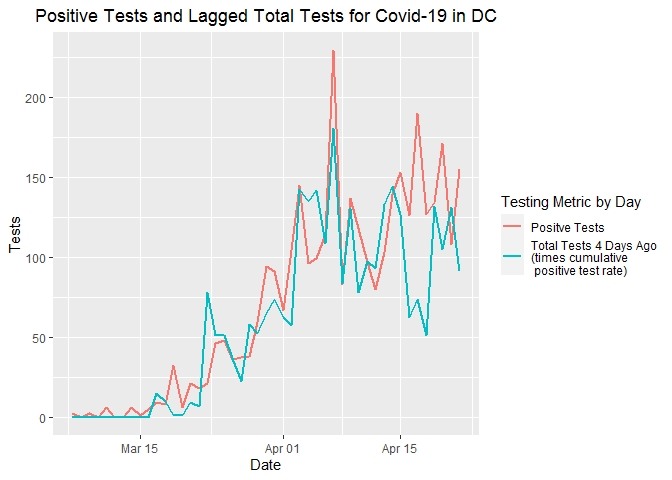
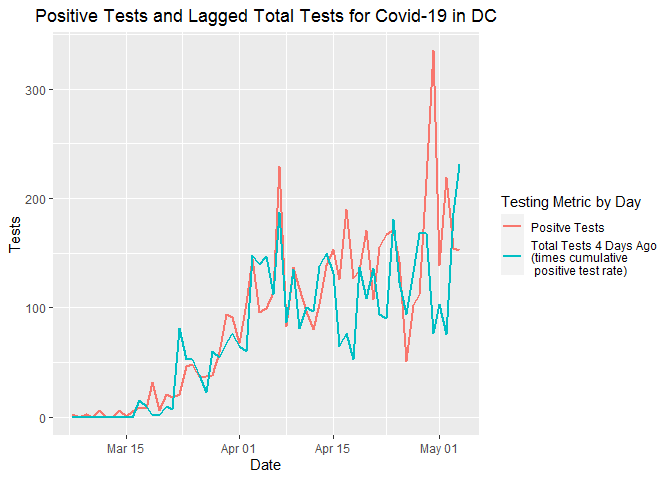
Update

diff --git a/Markdown/Testing_Results_Lag.md b/Markdown/Testing_Results_Lag.md
@@ -3,7 +3,7 @@ Lag in DC Test Results
 
 ### Postive Covid-19 Results in DC Lag by About Four Days
 
-23 April, 2020
+05 May, 2020
 
 **Note: I’m going to stop updating this file as the clear relationship
 between tests a few days ago and positive numbers now doesn’t appear to
@@ -12,45 +12,45 @@ be valid anymore.**
 The below plot shows the number of Positive Tests in red and the number
 of New Tests (multiplied by the positive test rate) in blue. Although
 the numbers tracked pretty well early on in testing, they have diverged
-recently. The correlation coefficient is currently 0.8005374.
+recently. The correlation coefficient is currently 0.8540016.
 
 ![](Testing_Results_Lag_files/figure-gfm/same_day-1.png)<!-- -->
 
 The below plot shows the number of Positive Tests in red compared to the
 number of New Tests four days ago (times the cumulative positive test
 rate) in blue. These numbers track much better, with a current
-correlation coefficient of 0.8573462.
+correlation coefficient of 0.7230607.
 
 ![](Testing_Results_Lag_files/figure-gfm/lag_4-1.png)<!-- -->
 
 Here is the correlation matrix for those interested in such a thing.
 
     ##              Test_New   Pos_New Test_Lag_1 Test_Lag_2 Test_Lag_3 Test_Lag_4
-    ## Test_New    1.0000000 0.8005374  0.7528415  0.7474900  0.6574723  0.7044287
-    ## Pos_New     0.8005374 1.0000000  0.6839421  0.7742732  0.7306120  0.8573462
-    ## Test_Lag_1  0.7528415 0.6839421  1.0000000  0.7624816  0.7751079  0.6676042
-    ## Test_Lag_2  0.7474900 0.7742732  0.7624816  1.0000000  0.7708756  0.7819632
-    ## Test_Lag_3  0.6574723 0.7306120  0.7751079  0.7708756  1.0000000  0.7942347
-    ## Test_Lag_4  0.7044287 0.8573462  0.6676042  0.7819632  0.7942347  1.0000000
-    ## Test_Lag_5  0.6855713 0.7822784  0.7126163  0.6749142  0.8016943  0.7990223
-    ## Test_Lag_6  0.7156503 0.8280881  0.6988118  0.7143976  0.6677115  0.8112982
-    ## Test_Lag_7  0.6527717 0.8185657  0.7236941  0.7014387  0.7203872  0.6747240
-    ## Test_Lag_8  0.6537431 0.7907564  0.6665863  0.7247441  0.6915465  0.7310507
-    ## Test_Lag_9  0.6114420 0.7378356  0.6633478  0.6811519  0.7649596  0.7004736
-    ## Test_Lag_10 0.6800005 0.7717437  0.6193804  0.6697833  0.7012145  0.7689503
+    ## Test_New    1.0000000 0.8540016  0.7661157  0.7052675  0.6136835  0.6292945
+    ## Pos_New     0.8540016 1.0000000  0.6739048  0.6576971  0.6566246  0.7230607
+    ## Test_Lag_1  0.7661157 0.6739048  1.0000000  0.7740931  0.7349192  0.6302708
+    ## Test_Lag_2  0.7052675 0.6576971  0.7740931  1.0000000  0.7859521  0.7385733
+    ## Test_Lag_3  0.6136835 0.6566246  0.7349192  0.7859521  1.0000000  0.7789861
+    ## Test_Lag_4  0.6292945 0.7230607  0.6302708  0.7385733  0.7789861  1.0000000
+    ## Test_Lag_5  0.6736989 0.7544673  0.6589080  0.6382753  0.7165144  0.7717293
+    ## Test_Lag_6  0.6931940 0.7541224  0.6920716  0.6623577  0.6195128  0.7074573
+    ## Test_Lag_7  0.6904215 0.7658921  0.7025186  0.7053401  0.7039435  0.6445528
+    ## Test_Lag_8  0.6850192 0.7413969  0.6976921  0.7087010  0.7283966  0.7154790
+    ## Test_Lag_9  0.6595675 0.7272718  0.6934086  0.7091445  0.7481516  0.7510090
+    ## Test_Lag_10 0.6854888 0.7489734  0.6733663  0.6949267  0.6978827  0.7406839
     ##             Test_Lag_5 Test_Lag_6 Test_Lag_7 Test_Lag_8 Test_Lag_9 Test_Lag_10
-    ## Test_New     0.6855713  0.7156503  0.6527717  0.6537431  0.6114420   0.6800005
-    ## Pos_New      0.7822784  0.8280881  0.8185657  0.7907564  0.7378356   0.7717437
-    ## Test_Lag_1   0.7126163  0.6988118  0.7236941  0.6665863  0.6633478   0.6193804
-    ## Test_Lag_2   0.6749142  0.7143976  0.7014387  0.7247441  0.6811519   0.6697833
-    ## Test_Lag_3   0.8016943  0.6677115  0.7203872  0.6915465  0.7649596   0.7012145
-    ## Test_Lag_4   0.7990223  0.8112982  0.6747240  0.7310507  0.7004736   0.7689503
-    ## Test_Lag_5   1.0000000  0.8064778  0.8149726  0.6827639  0.7397766   0.7054442
-    ## Test_Lag_6   0.8064778  1.0000000  0.8077145  0.8112264  0.7038708   0.7486109
-    ## Test_Lag_7   0.8149726  0.8077145  1.0000000  0.8091770  0.8227753   0.7090417
-    ## Test_Lag_8   0.6827639  0.8112264  0.8091770  1.0000000  0.8327191   0.8333506
-    ## Test_Lag_9   0.7397766  0.7038708  0.8227753  0.8327191  1.0000000   0.8378140
-    ## Test_Lag_10  0.7054442  0.7486109  0.7090417  0.8333506  0.8378140   1.0000000
+    ## Test_New     0.6736989  0.6931940  0.6904215  0.6850192  0.6595675   0.6854888
+    ## Pos_New      0.7544673  0.7541224  0.7658921  0.7413969  0.7272718   0.7489734
+    ## Test_Lag_1   0.6589080  0.6920716  0.7025186  0.6976921  0.6934086   0.6733663
+    ## Test_Lag_2   0.6382753  0.6623577  0.7053401  0.7087010  0.7091445   0.6949267
+    ## Test_Lag_3   0.7165144  0.6195128  0.7039435  0.7283966  0.7481516   0.6978827
+    ## Test_Lag_4   0.7717293  0.7074573  0.6445528  0.7154790  0.7510090   0.7406839
+    ## Test_Lag_5   1.0000000  0.7605538  0.7531578  0.6675410  0.7580708   0.7421973
+    ## Test_Lag_6   0.7605538  1.0000000  0.7892382  0.7670741  0.6929536   0.7498747
+    ## Test_Lag_7   0.7531578  0.7892382  1.0000000  0.7958876  0.7725665   0.7156435
+    ## Test_Lag_8   0.6675410  0.7670741  0.7958876  1.0000000  0.8015520   0.7827701
+    ## Test_Lag_9   0.7580708  0.6929536  0.7725665  0.8015520  1.0000000   0.8224750
+    ## Test_Lag_10  0.7421973  0.7498747  0.7156435  0.7827701  0.8224750   1.0000000
 
 A couple notes. First, the test counts for 20 March were missing so I
 averaged the 19 March and 21 March test rate. In addition, for the
